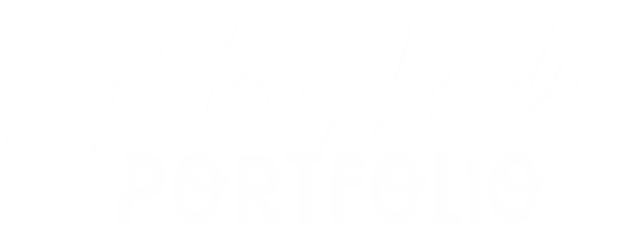
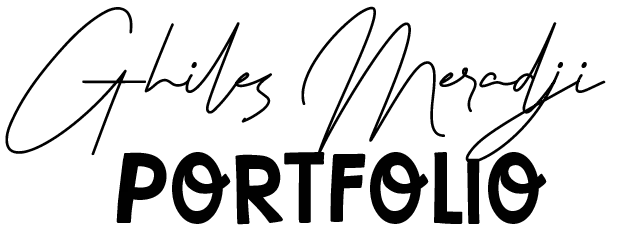
new changes

diff --git a/src/app/page.js b/src/app/page.js
@@ -1,5 +1,7 @@
 "use client";
 import Image from "next/image";
+import { GiPointing } from "react-icons/gi";
+import { MdOutlineWork } from "react-icons/md";
 import { useState, useEffect } from "react";
 import {
   Carousel,
@@ -37,10 +39,15 @@ const workCategories = {
   "print": {
     title: "Print (Affiches, Brochures, Dépliants, Roll up banner...)",
     images: [
-      "/png/test.webp",
-      "/png/test.webp",
-      "/png/test.webp",
-      "/png/test.webp",    ]
+      "/print/brochure1.jpg",
+      "/print/card.jpg",
+      "/print/carte2.jpg",
+      "/print/menu1.jpg",
+      "/print/menu2.jpg",
+      "/print/notebook1.jpg",
+      "/print/poster2.jpg",
+      "/print/rollup.jpg",
+    ]
   },
   "social": {
     title: "Social Media Posts",
@@ -55,10 +62,17 @@ const workCategories = {
   "events": {
     title: "Events (Projets Complets)",
     images: [
-      "/png/test.webp",
-      "/png/test.webp",
-      "/png/test.webp",
-      "/png/test.webp",    ]
+      "/event/A3Poster.jpg",
+      "/event/Cuptalentueux.jpg",
+      "/event/affiche1.jpg",
+      "/event/badge.jpg",
+      "/event/ibturenMug.jpg",
+      "/event/idcard.jpg",
+      "/event/poster3.jpg",
+      "/event/rollup.jpg",
+      "/event/ticket1.jpg",
+      "/event/ticket2.jpg",
+   ]
   }
 };
 
@@ -121,7 +135,7 @@ export default function Home() {
             
             <div className="h-12 w-auto">
               <Image
-                src="/png/signatureP.webp"
+                src="/png/signaturePw.webp"
                 width={120}
                 height={48}
                 alt="Ghiles Meradji Logo"
@@ -162,9 +176,12 @@ export default function Home() {
       <section id="work" className="py-20 bg-[#374a9a] ">
         <div className="max-w-7xl mx-auto px-4 sm:px-6 lg:px-8">
           <div className="text-center mb-16">
+           <div className="flex flex-row justify-center">
+           <MdOutlineWork className="text-white text-3xl "/>
             <h2 className=" text-white text-3xl font-bold  mb-4">
               Mes Travaux
             </h2>
+           </div>
             <p className="text-gray-200 max-w-2xl mx-auto">
               Découvrez une sélection de mes projets dans différents domaines du design graphique
             </p>
@@ -172,10 +189,14 @@ export default function Home() {
 
           <div className="space-y-10 ">
             {Object.entries(workCategories).map(([key, category]) => (
-              <div key={key} className="space-y-8">
-                <h3 className="text-2xl font-bold text-gray-200 text-start">
-                  {category.title}
-                </h3>
+              <div key={key} className="space-y-8 ">
+                <div className="flex items-center gap-3">
+                  <GiPointing className="text-3xl text-white"/>
+                  <h3 className="text-white text-xl sm:text-2xl md:text-3xl font-bold whitespace-nowrap">
+                    {category.title}
+                  </h3>
+                  <div className="h-px flex-1 border-t-4 border-dashed border-white/60"></div>
+                </div>
                   <Carousel className="w-full overflow-hidden">
                     <CarouselContent className="-ml-2 md:-ml-4">
                       {category.images.map((img, index) => (
@@ -188,7 +209,7 @@ export default function Home() {
                             alt={`${category.title} ${index + 1}`}
                             width={600}
                             height={400}
-                            className="w-full h-64 object-cover rounded-xl"
+                            className="w-full h-64 object-cover rounded-xl bg-[#404a9f]"
                             loading="lazy"
                           />
                         </CarouselItem>
@@ -222,7 +243,7 @@ export default function Home() {
           <div className="flex flex-col md:flex-row justify-between items-center space-y-4 md:space-y-0">
             <div className="flex items-center space-x-4">
               <Image
-                src="/png/signatureP.png"
+                src="/png/signatureP.webp"
                 width={80}
                 height={32}
                 alt="Ghiles Meradji"
